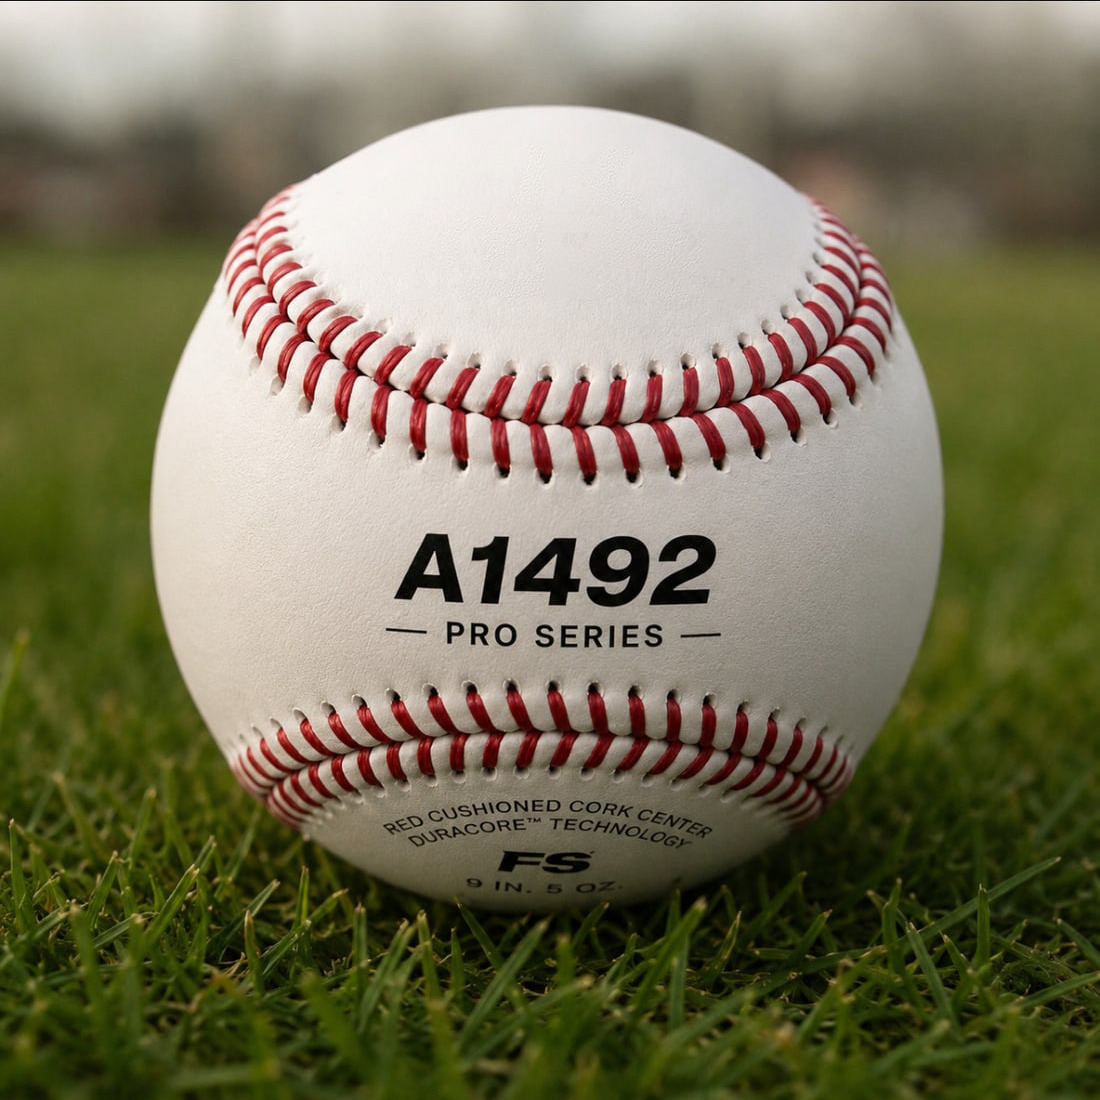
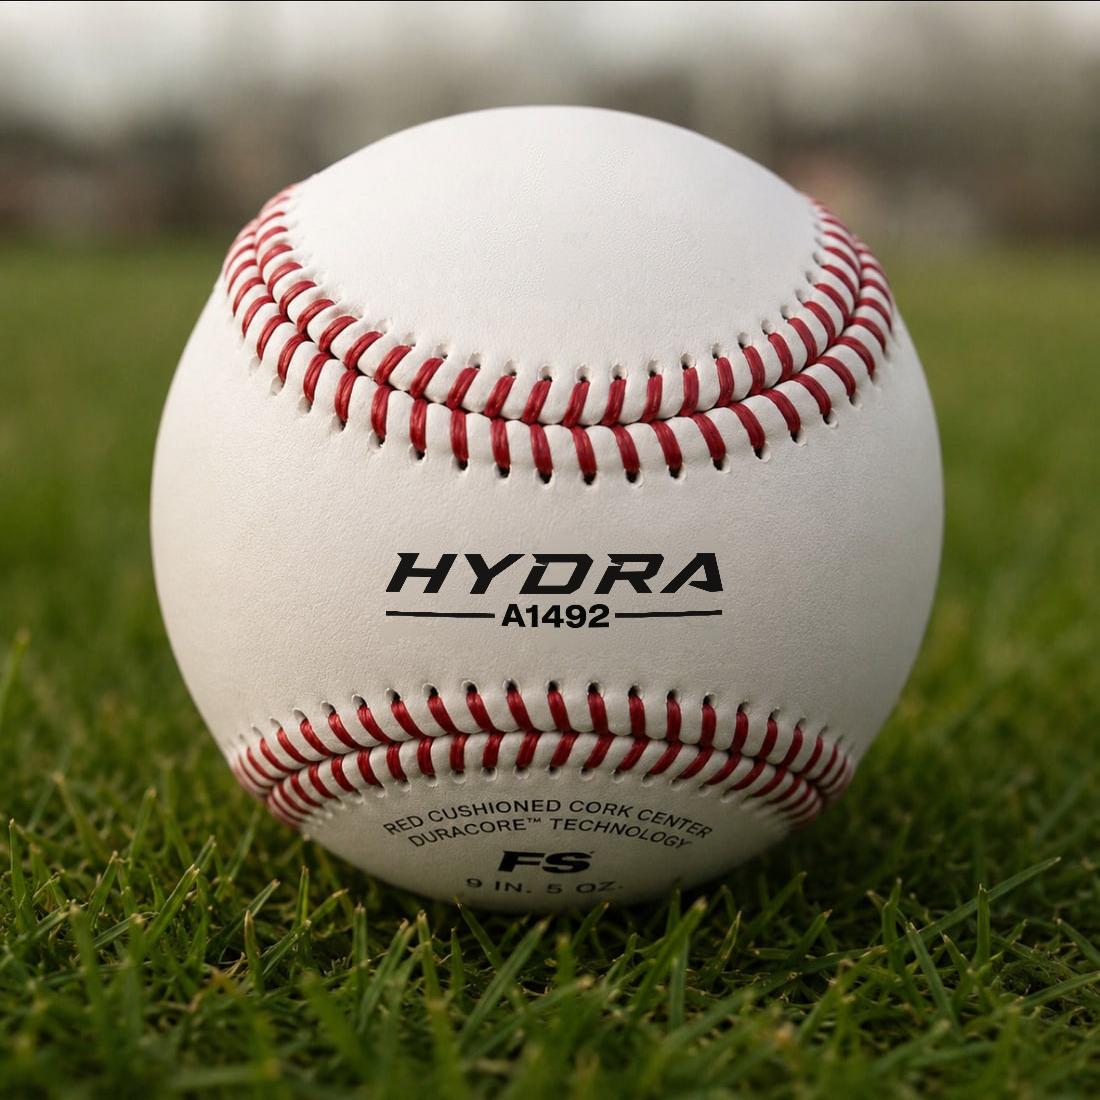
Move the Hydra name to the panel when a team takes the horseshoe
The horseshoe blank cleared the wordmark and left the A1492 / PRO SERIES mark
between the seams, so a ball whose horseshoe carried a team's logo had the
Hydra name nowhere on it. The name now moves down to the panel instead, as the
HYDRA / A1492 lockup printed over the model mark it replaces.

The lockup is built from artwork already in the repo rather than a font, so the
letterforms are the real ones: the wordmark comes off public/logo.png, and the
model mark is lifted off the product photo by the same black top-hat that finds
the printing everywhere else, then flattened back off the sphere. It is
photographed italic and the wordmark's second line is upright, so the slant is
measured off the stem of the 1 and sheared out.

Printing it is the same wrap in reverse, multiplied over the rebuilt leather so
the grain and the light on the panel carry through the glyphs, and laid down at
the density the printing it replaced was measured at. That last part is what
keeps it in the system: the preview finds it with the closing it already runs
over that box, so the lockup restamps in a team's Pantone colour along with
everything else, with no drawing code of its own.

Claude-Session: https://claude.ai/code/session_01BGxA84RVaHhudkcyV5ws5v

Changed region(s): [[0.34, 0.4636, 0.68, 0.5873]]

diff --git a/public/script.js b/public/script.js
@@ -266,11 +266,12 @@
     var TAU = Math.PI * 2;
 
     /* Where a mark can go, in flat decal units, with the box it is fitted into
-       and the photo that has that spot cleared. Each photo clears only the spot
-       being printed on, so the ball keeps one mark of its own either way: the
-       Hydra wordmark when a logo goes on the panel, the A1492 model between the
-       seams when a logo takes the horseshoe. Both spots were measured off the
-       photo and mapped through the projection below. */
+       and the photo that has that spot cleared. The ball keeps the Hydra name
+       either way: printed in the horseshoe as it ships, or moved down onto the
+       panel as the HYDRA / A1492 lockup when a team takes the horseshoe — which
+       is retouched into the photo by tools/make-ball-blank.py, not drawn here.
+       Both spots were measured off the photo and mapped through the projection
+       below. */
     var PLACEMENTS = {
       panel: {
         x: 0.05, y: 0.174, fitW: 0.8, fitH: 0.4,
@@ -422,7 +423,8 @@
        has been retouched out simply yields no ink. */
     var PRINT_BOXES = [
       [312, 630, 112, 262],   /* the Hydra wordmark, up in the horseshoe */
-      [308, 618, 404, 558],   /* the model mark, between the seams */
+      [308, 618, 404, 558],   /* between the seams: the model mark, or the
+                                 HYDRA / A1492 lockup that replaces it */
       [302, 602, 643, 740]    /* the specs line along the bottom */
     ];
     var PRINT_R = 16;             /* half the kernel — wider than any stroke */
@@ -1012,7 +1014,7 @@
         var next = this.getAttribute('data-spot') || 'panel';
         setPlacement(next);
         say(next === 'horseshoe'
-          ? 'Printed on the horseshoe — the Hydra mark makes way for yours.'
+          ? 'Printed on the horseshoe — the Hydra name moves down to the panel.'
           : 'Printed on the panel between the seams.');
       });
     }

diff --git a/tools/make-panel-lockup.py b/tools/make-panel-lockup.py
@@ -1,0 +1,192 @@
+"""Build the HYDRA / A1492 lockup the customizer prints on the panel.
+
+When a team's mark takes the horseshoe, the panel carries the Hydra name with
+the model under it instead of the A1492 / PRO SERIES mark the ball ships with.
+This writes that lockup as flat artwork:
+
+  public/images/panel-lockup.png   black on transparent, ready to print
+
+Both halves come from artwork already in the repo rather than a font, so the
+letterforms are the real ones:
+
+  HYDRA   the wordmark out of public/logo.png
+  A1492   the model mark off public/images/ball.jpg, lifted by the same black
+          top-hat make-ball-blank.py uses and flattened back off the sphere
+
+The photographed mark is italic, as it is printed on the ball. The wordmark's
+second line is upright in public/logo.png -- an upright line under the slanted
+wordmark is how the lockup is drawn -- so the slant is measured off the stem of
+the 1 and sheared back out.
+
+Run from the repo root:  python3 tools/make-panel-lockup.py
+Then re-run make-ball-blank.py, which prints this onto the horseshoe blank.
+"""
+from PIL import Image
+import numpy as np
+
+LOGO = 'public/logo.png'
+BALL = 'public/images/ball.jpg'
+OUT = 'public/images/panel-lockup.png'
+
+# The ball in the source photo, and the panel it is printed on (both measured
+# in make-ball-blank.py, which is where these came from).
+BALL_CX, BALL_CY, BALL_R = 545.5, 536.8, 394.5
+PANEL_BOX = (380, 750, 515, 695)
+
+# Bands in public/logo.png: the wordmark, and the rule line under it. Rows are
+# the ink's own extents, so a redrawn logo only needs these re-measured.
+WORDMARK = (43, 999, 348, 457)      # x0, x1, y0, y1 of HYDRA
+RULE_L = (38, 227, 485, 530)        # the dash left of BASEBALL CO.
+RULE_R = (819, 996, 485, 530)       # and the one right of it
+
+# Layout, in multiples of the wordmark's height. The model line sits a little
+# larger than BASEBALL CO. does, as the lockup draws it.
+GAP = 0.25
+MODEL_H = 0.62
+RULE_GAP = 0.16
+SCALE = 2.0                          # output is this many logo.png pixels
+
+
+def coverage(rgba):
+    """Ink coverage 0..1 of black artwork, whether it is matted or has alpha."""
+    a = rgba[..., 3] / 255.0
+    lum = rgba[..., :3].mean(2) / 255.0
+    return np.clip(a * (1 - lum), 0, 1)
+
+
+def morph(x, n, grow):
+    """Grayscale dilation (grow=True) or erosion, n steps of a plus kernel."""
+    for _ in range(n):
+        p = np.pad(x, 1, mode='edge')
+        stack = [p[:-2, 1:-1], p[2:, 1:-1], p[1:-1, :-2], p[1:-1, 2:], x]
+        x = np.maximum.reduce(stack) if grow else np.minimum.reduce(stack)
+    return x
+
+
+def trim(cov):
+    """Crop to the ink, and hand back the box it came from."""
+    rows = np.where((cov > 0.5).any(1))[0]
+    cols = np.where((cov > 0.5).any(0))[0]
+    return cov[rows[0]:rows[-1] + 1, cols[0]:cols[-1] + 1]
+
+
+def resize(cov, w, h):
+    im = Image.fromarray((np.clip(cov, 0, 1) * 255).astype(np.uint8), 'L')
+    return np.asarray(im.resize((max(1, int(round(w))), max(1, int(round(h)))), Image.LANCZOS)).astype(np.float32) / 255.0
+
+
+def unproject(cov, x0, y0):
+    """A decal off the sphere. A screen point r radii from the centre sits
+    asin(r) radians of arc away, so sampling the photo at sin(r) walks the
+    artwork back to the flat it was printed from."""
+    fx0, fx1, fy0, fy1, px = -0.45, 0.55, -0.10, 0.42, 1400.0
+    w, h = int((fx1 - fx0) * px), int((fy1 - fy0) * px)
+    fx = fx0 + (np.arange(w) + 0.5) / px
+    fy = fy0 + (np.arange(h) + 0.5) / px
+    FY, FX = np.meshgrid(fy, fx, indexing='ij')
+    r = np.hypot(FX, FY)
+    k = np.where(r < 1e-6, 1.0, np.sin(np.clip(r, None, np.pi / 2)) / np.maximum(r, 1e-6))
+    sx = np.clip(BALL_CX + FX * k * BALL_R - x0, 0, cov.shape[1] - 1.001)
+    sy = np.clip(BALL_CY + FY * k * BALL_R - y0, 0, cov.shape[0] - 1.001)
+    i, j = sx.astype(int), sy.astype(int)
+    tx, ty = sx - i, sy - j
+    return (cov[j, i] * (1 - tx) * (1 - ty) + cov[j, i + 1] * tx * (1 - ty) +
+            cov[j + 1, i] * (1 - tx) * ty + cov[j + 1, i + 1] * tx * ty)
+
+
+def lines(cov):
+    """Split a flattened panel into its rows of type, top down."""
+    on = (cov > 0.5).any(1)
+    out, start = [], None
+    for y, v in enumerate(on):
+        if v and start is None:
+            start = y
+        elif not v and start is not None:
+            out.append(cov[start:y]); start = None
+    if start is not None:
+        out.append(cov[start:])
+    return out
+
+
+def deslant(cov):
+    """Shear the italic out, by the lean of the narrowest glyph's stem."""
+    runs, start = [], None
+    on = (cov > 0.5).any(0)
+    for x, v in enumerate(on):
+        if v and start is None:
+            start = x
+        elif not v and start is not None:
+            runs.append((start, x - 1)); start = None
+    if start is not None:
+        runs.append((start, len(on) - 1))
+    x0, x1 = min(runs, key=lambda r: r[1] - r[0])
+    stem = cov[int(cov.shape[0] * 0.45):, x0:x1 + 1]
+    ys, cs = [], []
+    for y in range(stem.shape[0]):
+        m = np.flatnonzero(stem[y] > 0.5)
+        if m.size > 3:
+            ys.append(y + int(cov.shape[0] * 0.45)); cs.append(m.mean())
+    slope = np.polyfit(np.array(ys, float), np.array(cs, float), 1)[0]
+    print('  model mark leans %.1f deg — shearing it upright' % np.degrees(np.arctan(-slope)))
+
+    h, w = cov.shape
+    mid = h / 2.0
+    pad = int(abs(slope) * h) + 2
+    out = np.zeros((h, w + 2 * pad), np.float32)
+    src = np.arange(w + 2 * pad, dtype=np.float32) - pad
+    for y in range(h):
+        u = src + slope * (y - mid)           # undo the lean row by row
+        i = np.floor(u).astype(int)
+        t = u - i
+        ok = (i >= 0) & (i < w - 1)
+        out[y, ok] = cov[y, i[ok]] * (1 - t[ok]) + cov[y, i[ok] + 1] * t[ok]
+    return trim(out)
+
+
+logo = np.asarray(Image.open(LOGO).convert('RGBA')).astype(np.float32)
+lx0, lx1, ly0, ly1 = WORDMARK
+hydra = trim(coverage(logo[ly0:ly1 + 1, lx0:lx1 + 1]))
+rule_l = trim(coverage(logo[RULE_L[2]:RULE_L[3], RULE_L[0]:RULE_L[1] + 1]))
+rule_r = trim(coverage(logo[RULE_R[2]:RULE_R[3], RULE_R[0]:RULE_R[1] + 1]))
+print('wordmark %dx%d, rules %dx%d and %dx%d'
+      % (hydra.shape[1], hydra.shape[0], rule_l.shape[1], rule_l.shape[0],
+         rule_r.shape[1], rule_r.shape[0]))
+
+photo = np.asarray(Image.open(BALL).convert('RGB')).astype(np.float32)
+px0, px1, py0, py1 = PANEL_BOX
+region = photo[py0:py1, px0:px1]
+lum = 0.299 * region[..., 0] + 0.587 * region[..., 1] + 0.114 * region[..., 2]
+closed = morph(morph(lum, 20, True), 20, False)
+# Coverage, not the tool's hard mask: these glyphs are becoming artwork, so
+# their edges have to keep the softness they were printed with.
+depth = closed - lum
+cov = np.clip(depth / np.maximum(closed * 0.95, 1), 0, 1) * np.clip((depth - 18) / 20.0, 0, 1)
+cov[(region[..., 0] - region[..., 1]) > 22] = 0     # red seam thread is not ink
+model = deslant(trim(lines(unproject(cov, px0, py0))[0]))
+print('model mark %dx%d' % (model.shape[1], model.shape[0]))
+
+# Lay it out: the wordmark, then the model between the rules on one line the
+# width of the wordmark, the way public/logo.png sets its own second line.
+hw = int(round(hydra.shape[1] * SCALE))
+hh = int(round(hydra.shape[0] * SCALE))
+mh = int(round(hh * MODEL_H))
+mw = int(round(model.shape[1] * mh / model.shape[0]))
+gap = int(round(hh * GAP))
+rgap = int(round(hh * RULE_GAP))
+rw = (hw - mw - 2 * rgap) // 2
+rh_l = max(1, int(round(rule_l.shape[0] * rw / rule_l.shape[1])))
+rh_r = max(1, int(round(rule_r.shape[0] * rw / rule_r.shape[1])))
+
+sheet = np.zeros((hh + gap + mh, hw), np.float32)
+sheet[:hh] = resize(hydra, hw, hh)
+line = np.zeros((mh, hw), np.float32)
+line[:, (hw - mw) // 2:(hw - mw) // 2 + mw] = resize(model, mw, mh)
+for piece, h_r, x in ((rule_l, rh_l, 0), (rule_r, rh_r, hw - rw)):
+    top = (mh - h_r) // 2
+    line[top:top + h_r, x:x + rw] = np.maximum(line[top:top + h_r, x:x + rw], resize(piece, rw, h_r))
+sheet[hh + gap:] = line
+
+out = np.zeros(sheet.shape + (4,), np.uint8)
+out[..., 3] = np.clip(sheet * 255, 0, 255)
+Image.fromarray(out).save(OUT)
+print('wrote %-34s %dx%d' % (OUT, out.shape[1], out.shape[0]))

diff --git a/tools/make-ball-blank.py b/tools/make-ball-blank.py
@@ -3,11 +3,15 @@
 Reads public/images/ball.jpg (the A1492 product shot) and writes two versions:
 
   ball-blank.jpg            the A1492 / PRO SERIES panel cleared
-  ball-blank-horseshoe.jpg  the Hydra wordmark cleared instead
+  ball-blank-horseshoe.jpg  the Hydra wordmark cleared, and the panel restamped
+                            with the HYDRA / A1492 lockup
 
 The preview shows the first by default and swaps to the second when a team puts
-its mark in the horseshoe, where the Hydra wordmark normally sits. Only the spot
-being printed on is cleared, so the ball keeps one mark of its own either way.
+its mark in the horseshoe, where the Hydra wordmark normally sits. The ball
+keeps the Hydra name either way: printed in the horseshoe as it ships, or moved
+down onto the panel over the model mark when a team takes the horseshoe. That
+lockup is built by tools/make-panel-lockup.py - run it first if it or the logo
+has changed.
 
 Ink is found by a morphological black top-hat: a closing fills anything darker
 and thinner than its kernel, so closing - image is the printing and nothing
@@ -16,12 +20,20 @@ panel's own shading - unlike diffusion it cannot leave a bright ghost inside a
 thick stroke - and the real grain is tiled back over it. Everything the mask
 does not touch is the photograph, untouched.
 
+The lockup goes back on the way a decal wraps a sphere: a screen point r radii
+from the centre is asin(r) radians of arc out, so the artwork is read at that
+arc and multiplied over the rebuilt leather. Multiplied, not painted, so the
+grain and the shading of the panel still read through the ink - and it lands at
+the density the printing it replaced was measured at, which is what lets the
+preview find it again and restamp it in a team's Pantone colour.
+
 Run from the repo root:  python3 tools/make-ball-blank.py
 """
 from PIL import Image
 import numpy as np
 
 SRC = 'public/images/ball.jpg'
+LOCKUP = 'public/images/panel-lockup.png'
 OUT_PANEL = 'public/images/ball-blank.jpg'
 OUT_HORSESHOE = 'public/images/ball-blank-horseshoe.jpg'
 
@@ -37,6 +49,14 @@ WORDMARK_BOX = (385, 765, 158, 330)   # H / HYDRA / BASEBALL CO. on the horsesho
 # Clean leather to lift grain from. It is high-pass only, so the same patch
 # works anywhere on the ball.
 GRAIN_BOX = (185, 345, 520, 690)
+
+# Where the lockup prints, in flat decal units (1 = the ball's radius at the
+# centre of the sphere): the centre and width of the printing it replaces, so
+# it lands in the panel exactly where the model mark was.
+LOCKUP_AT = (0.025, 0.1825)
+LOCKUP_W = 0.89
+# The printing on this ball reflects about 5% of the leather it sits on.
+INK_REFLECT = 0.05
 
 
 def blur3(x):
@@ -125,6 +145,39 @@ def clear(photo, box, label):
     return out
 
 
+def stamp(photo, box, art, centre, width, label):
+    """Return `photo` with flat `art` printed inside `box`, wrapped to the ball."""
+    x0, x1, y0, y1 = box
+    h, w = art.shape
+    height = width * h / w
+
+    yy, xx = np.mgrid[y0:y1, x0:x1]
+    u = (xx + 0.5 - BALL_CX) / BALL_R
+    v = (yy + 0.5 - BALL_CY) / BALL_R
+    r = np.hypot(u, v)
+    # Screen back to the flat the artwork is drawn on. The arc is undefined off
+    # the limb, so hold r there and let the uv test throw those away.
+    k = np.arcsin(np.clip(r, 0, 1)) / np.maximum(r, 1e-6)
+    ux = (u * k - centre[0]) / width + 0.5
+    uy = (v * k - centre[1]) / height + 0.5
+    on = (r < 0.999) & (ux >= 0) & (ux < 1) & (uy >= 0) & (uy < 1)
+
+    sx = np.clip(ux * (w - 1), 0, w - 1.001)
+    sy = np.clip(uy * (h - 1), 0, h - 1.001)
+    i, j = sx.astype(int), sy.astype(int)
+    tx, ty = sx - i, sy - j
+    cover = (art[j, i] * (1 - tx) * (1 - ty) + art[j, i + 1] * tx * (1 - ty) +
+             art[j + 1, i] * (1 - tx) * ty + art[j + 1, i + 1] * tx * ty)
+    cover = np.where(on, cover, 0.0)
+    print('%-9s ink covers %.1f%% of its box' % (label, 100 * (cover > 0.5).mean()))
+
+    out = photo.copy()
+    # Multiply: the ink filters the leather rather than replacing it, so the
+    # grain and the light on the panel carry straight through the glyphs.
+    out[y0:y1, x0:x1] = photo[y0:y1, x0:x1] * (1 - cover * (1 - INK_REFLECT))[..., None]
+    return out
+
+
 def save(photo, path):
     cropped = photo[TOP_CROP:, :, :]
     Image.fromarray(np.clip(cropped, 0, 255).astype(np.uint8)).save(path, quality=92, subsampling=0)
@@ -132,9 +185,14 @@ def save(photo, path):
 
 
 photo = np.asarray(Image.open(SRC).convert('RGB')).astype(np.float32)
+lockup = np.asarray(Image.open(LOCKUP).convert('RGBA')).astype(np.float32)[..., 3] / 255.0
 
-# Each version clears only the spot being printed on, so the ball always keeps
-# one mark of its own: the Hydra wordmark when a logo goes on the panel, the
-# A1492 model when a logo goes on the horseshoe.
+# A logo on the panel leaves the Hydra wordmark where it is printed, up in the
+# horseshoe, so that version only clears the panel.
 save(clear(photo, PANEL_BOX, 'panel'), OUT_PANEL)
-save(clear(photo, WORDMARK_BOX, 'wordmark'), OUT_HORSESHOE)
+
+# A logo in the horseshoe takes the wordmark's place, so the Hydra name moves
+# down to the panel: clear both spots, then print the lockup over the model
+# mark that was there.
+horseshoe = clear(clear(photo, WORDMARK_BOX, 'wordmark'), PANEL_BOX, 'panel')
+save(stamp(horseshoe, PANEL_BOX, lockup, LOCKUP_AT, LOCKUP_W, 'lockup'), OUT_HORSESHOE)

diff --git a/public/images/README.md b/public/images/README.md
@@ -27,16 +27,24 @@ To swap the video, drop a web-friendly **H.264 MP4** at `public/videos/hero.mp4`
 |------|----------------|-------|
 | `ball.jpg` | "The Hydra Difference" panel | The A1492 Pro Series product photo, cropped square-ish (`cover`). |
 | `ball-blank.jpg` | "Your Logo. Our Leather." customizer | The same photo with the printed A1492 / PRO SERIES panel retouched out and the black band cropped off the top, so an uploaded logo lands on bare leather. The Hydra wordmark stays. |
-| `ball-blank-horseshoe.jpg` | Same, when the logo is placed on the horseshoe | The Hydra wordmark cleared instead, since that's the spot the mark is taking — the A1492 model stays printed between the seams. Fetched only when someone picks that placement. |
+| `ball-blank-horseshoe.jpg` | Same, when the logo is placed on the horseshoe | The Hydra wordmark cleared instead, since that's the spot the mark is taking — so the Hydra name moves down to the panel, where the `HYDRA / A1492` lockup is printed over the model mark. Fetched only when someone picks that placement. |
+| `panel-lockup.png` | Printed into `ball-blank-horseshoe.jpg` | The `HYDRA / A1492` lockup as flat artwork, black on transparent. Not served to the browser — it's an input to the tool below. |
+| `players.jpg` | _Currently unused_ | Was the quote band background; that section has been removed. |
 
 Both blanks are generated from `ball.jpg` by `tools/make-ball-blank.py` (`python3
-tools/make-ball-blank.py` from the repo root). Re-run it after replacing
-`ball.jpg` — and if the new shot frames the ball differently, re-measure the
-ball circle, the two print spots and `PRINT_BOXES` in `public/script.js`. That
-last one is where the customizer looks for the printing already on the ball —
-the wordmark, the model mark and the specs line — so it can restamp it in the
-Pantone ink a team picks. A box that no longer sits over its printing simply
-leaves that printing black.
-| `players.jpg` | _Currently unused_ | Was the quote band background; that section has been removed. |
+tools/make-ball-blank.py` from the repo root), and the lockup it prints comes
+from `tools/make-panel-lockup.py` — run that first if the logo or the artwork
+has changed, then re-run the blanks. `make-panel-lockup.py` builds the lockup
+out of artwork already in the repo rather than a font: the wordmark off
+`public/logo.png`, the model mark lifted off `ball.jpg` itself and flattened
+back off the sphere. Drop a real vector export in as `panel-lockup.png` instead
+and `make-ball-blank.py` will print that.
+
+Re-run both after replacing `ball.jpg` — and if the new shot frames the ball
+differently, re-measure the ball circle, the two print spots and `PRINT_BOXES`
+in `public/script.js`. That last one is where the customizer looks for the
+printing already on the ball — the wordmark, the model mark or lockup, and the
+specs line — so it can restamp it in the Pantone ink a team picks. A box that no
+longer sits over its printing simply leaves that printing black.
 
 If a file is missing, an on-brand gradient fallback renders in its place.
